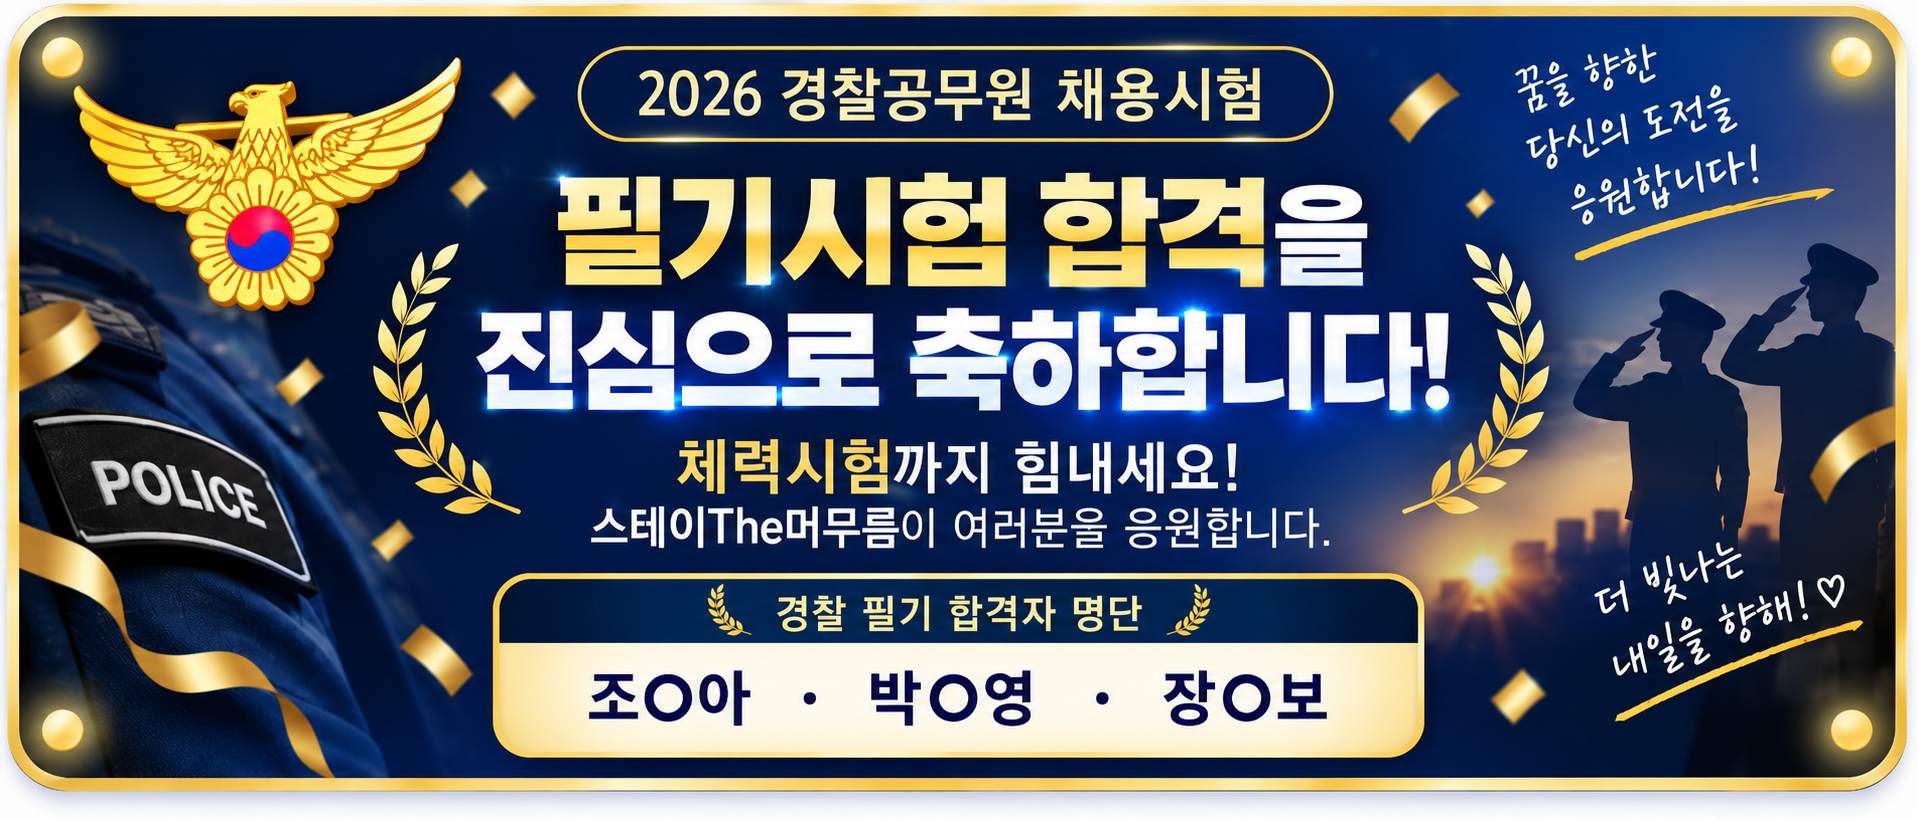
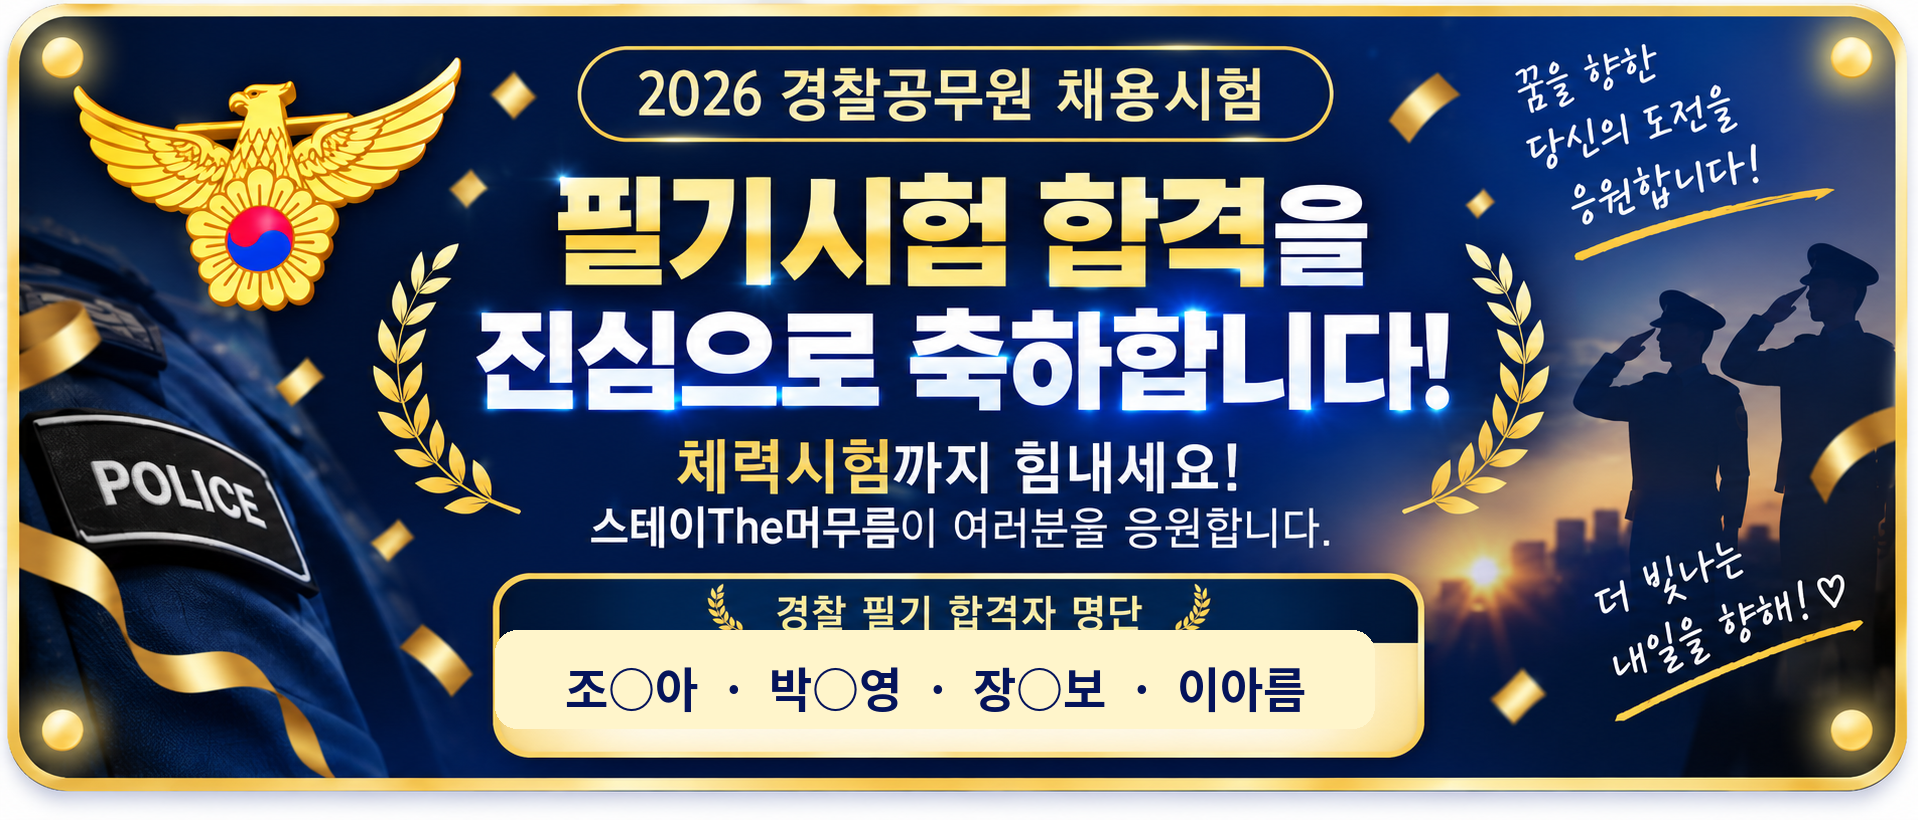
Add files via upload

Changed region(s): [[0.2461, 0.7622, 0.7075, 0.9146]]

diff --git a/vacancy-data.js b/vacancy-data.js
@@ -23,7 +23,8 @@ const VACANCY_MANAGER = {
     now: 0,
     dates: [
       "2026-09-10",
-      "2026-09-21"
+      "2026-09-21",
+      "2026-09-29"
       /* 새 날짜 예: ,"2026-10-05" */
     ],
     reservable: true,
